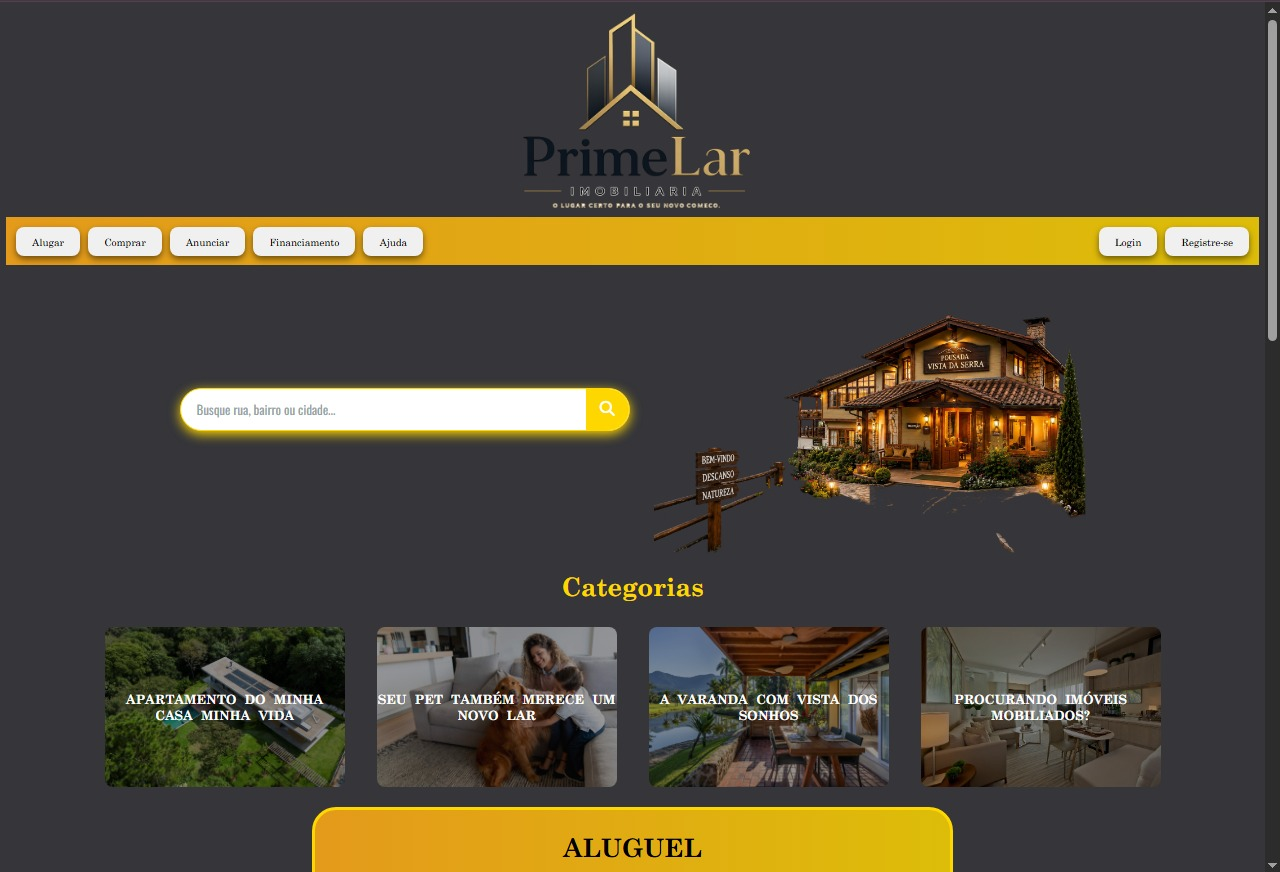
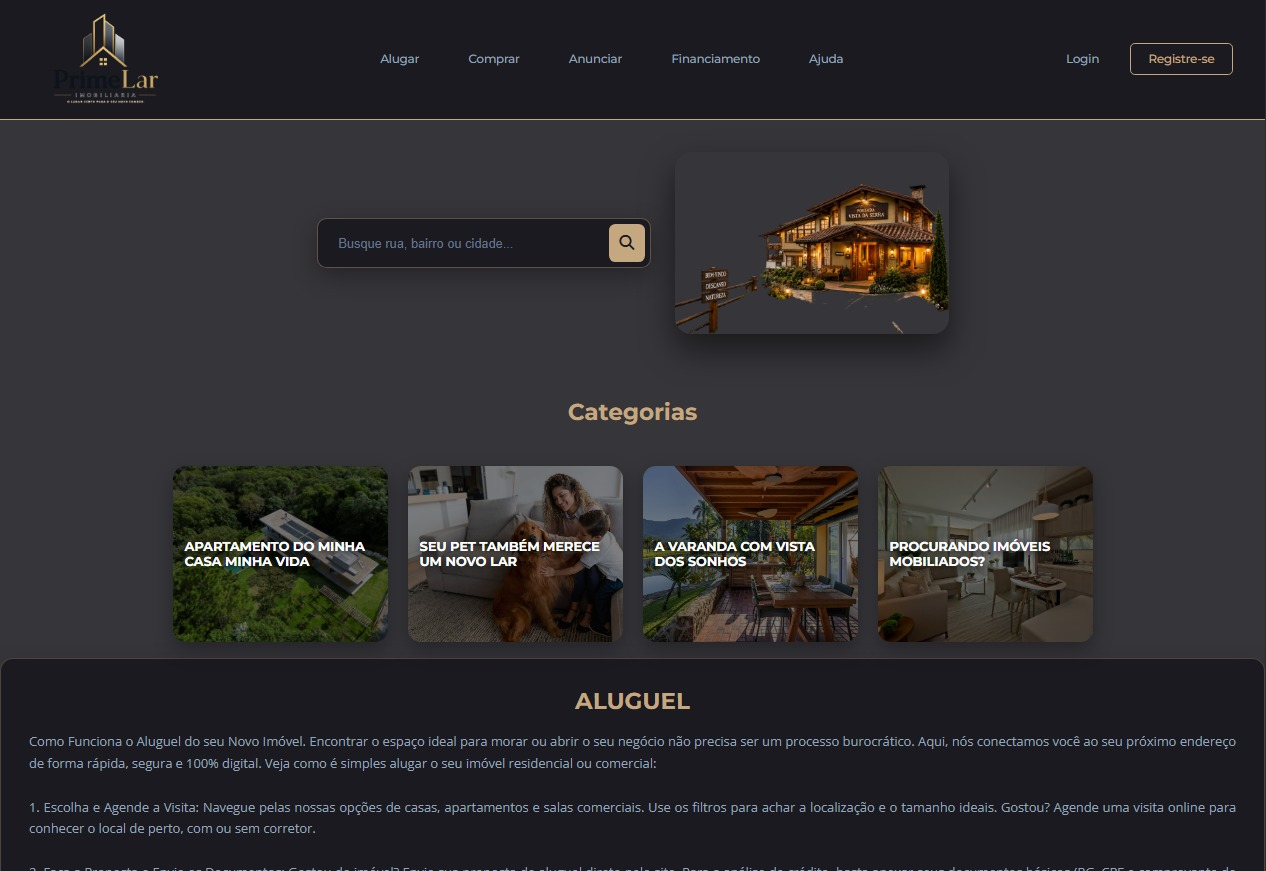
melhoria de texto sobre mim, atualização de imagem primelar, adicionada nova função noo JS para o footer

diff --git a/index.html b/index.html
@@ -32,7 +32,7 @@
         
         <section id="sobre">
             <h2>Sobre Mim</h2>
-            <p>Olá! Sou um entusiasta da tecnologia dando os meus primeiros passos no desenvolvimento web. Atualmente estou focado em dominar o HTML5 para criar estruturas de páginas sólidas e semânticas.</p>
+            <p>Me chamo Gabriel Pereira Freire, um jovem entusiasta de tecnologia e desenvolvimento web. Estou sempre buscando aprender novas habilidades e me aprimorar na área. Criei este portfólio para compartilhar meu trabalho com a comunidade e mostrar meu progresso, tanto para pessoas comuns quanto recrutadores.</p>
             
             <h3>Tecnologias e Ferramentas:</h3>
             <div class="tech-badges">
@@ -60,14 +60,17 @@
             
             <div class="projetos-container">
                 <article>
-                    <h3>1. Prime Lar Imobiliaria</h3>
+                    <h3>1. Prime Lar Imobiliária</h3>
                     <p>Como primeiro projeto, desenvolvi um site para uma imobiliária, focado em apresentar imóveis de forma clara e eficiente.</p>
-                    <p class="legenda-link">Site Prime para visualização (clique na imagem para acessar):</p>
-                    <a class="link" href="https://prime.rebonato.com.br/" target="_blank" rel="noopener noreferrer">
-                        <div class="container-zoom">
-                            <img class="img" src="./primelar.jpeg" alt="Print da tela inicial do site Prime Lar Imobiliária">
-                        </div>
-                    </a>
+                    
+                    <figure>
+                        <a class="link" href="https://prime.rebonato.com.br/" target="_blank" rel="noopener noreferrer" aria-label="Acessar o site da Prime Lar Imobiliária">
+                            <div class="container-zoom">
+                                <img class="img" src="./primelar.jpeg" alt="Print da tela inicial do site Prime Lar Imobiliária mostrando a busca de imóveis">
+                            </div>
+                        </a>
+                        <figcaption class="legenda-link">Clique na imagem para acessar o site em produção.</figcaption>
+                    </figure>
                 </article>
 
                 <article>
@@ -97,7 +100,7 @@
     </main>
 
     <footer class="footer">
-        <p>&copy; 2026 Gabriel Pereira. Todos os direitos reservados.</p>
+       <p>&copy; <span id="ano-atual"></span> Gabriel Pereira. Todos os direitos reservados.</p>
     </footer>
 
     <script src="script.js"></script>

diff --git a/script.js b/script.js
@@ -24,3 +24,7 @@ botao.addEventListener('click', () => {
         localStorage.setItem('theme', 'dark');  // Salva "dark" no navegador
     }
 });
+
+// ano do footer
+
+document.getElementById("ano-atual").textContent = new Date().getFullYear();